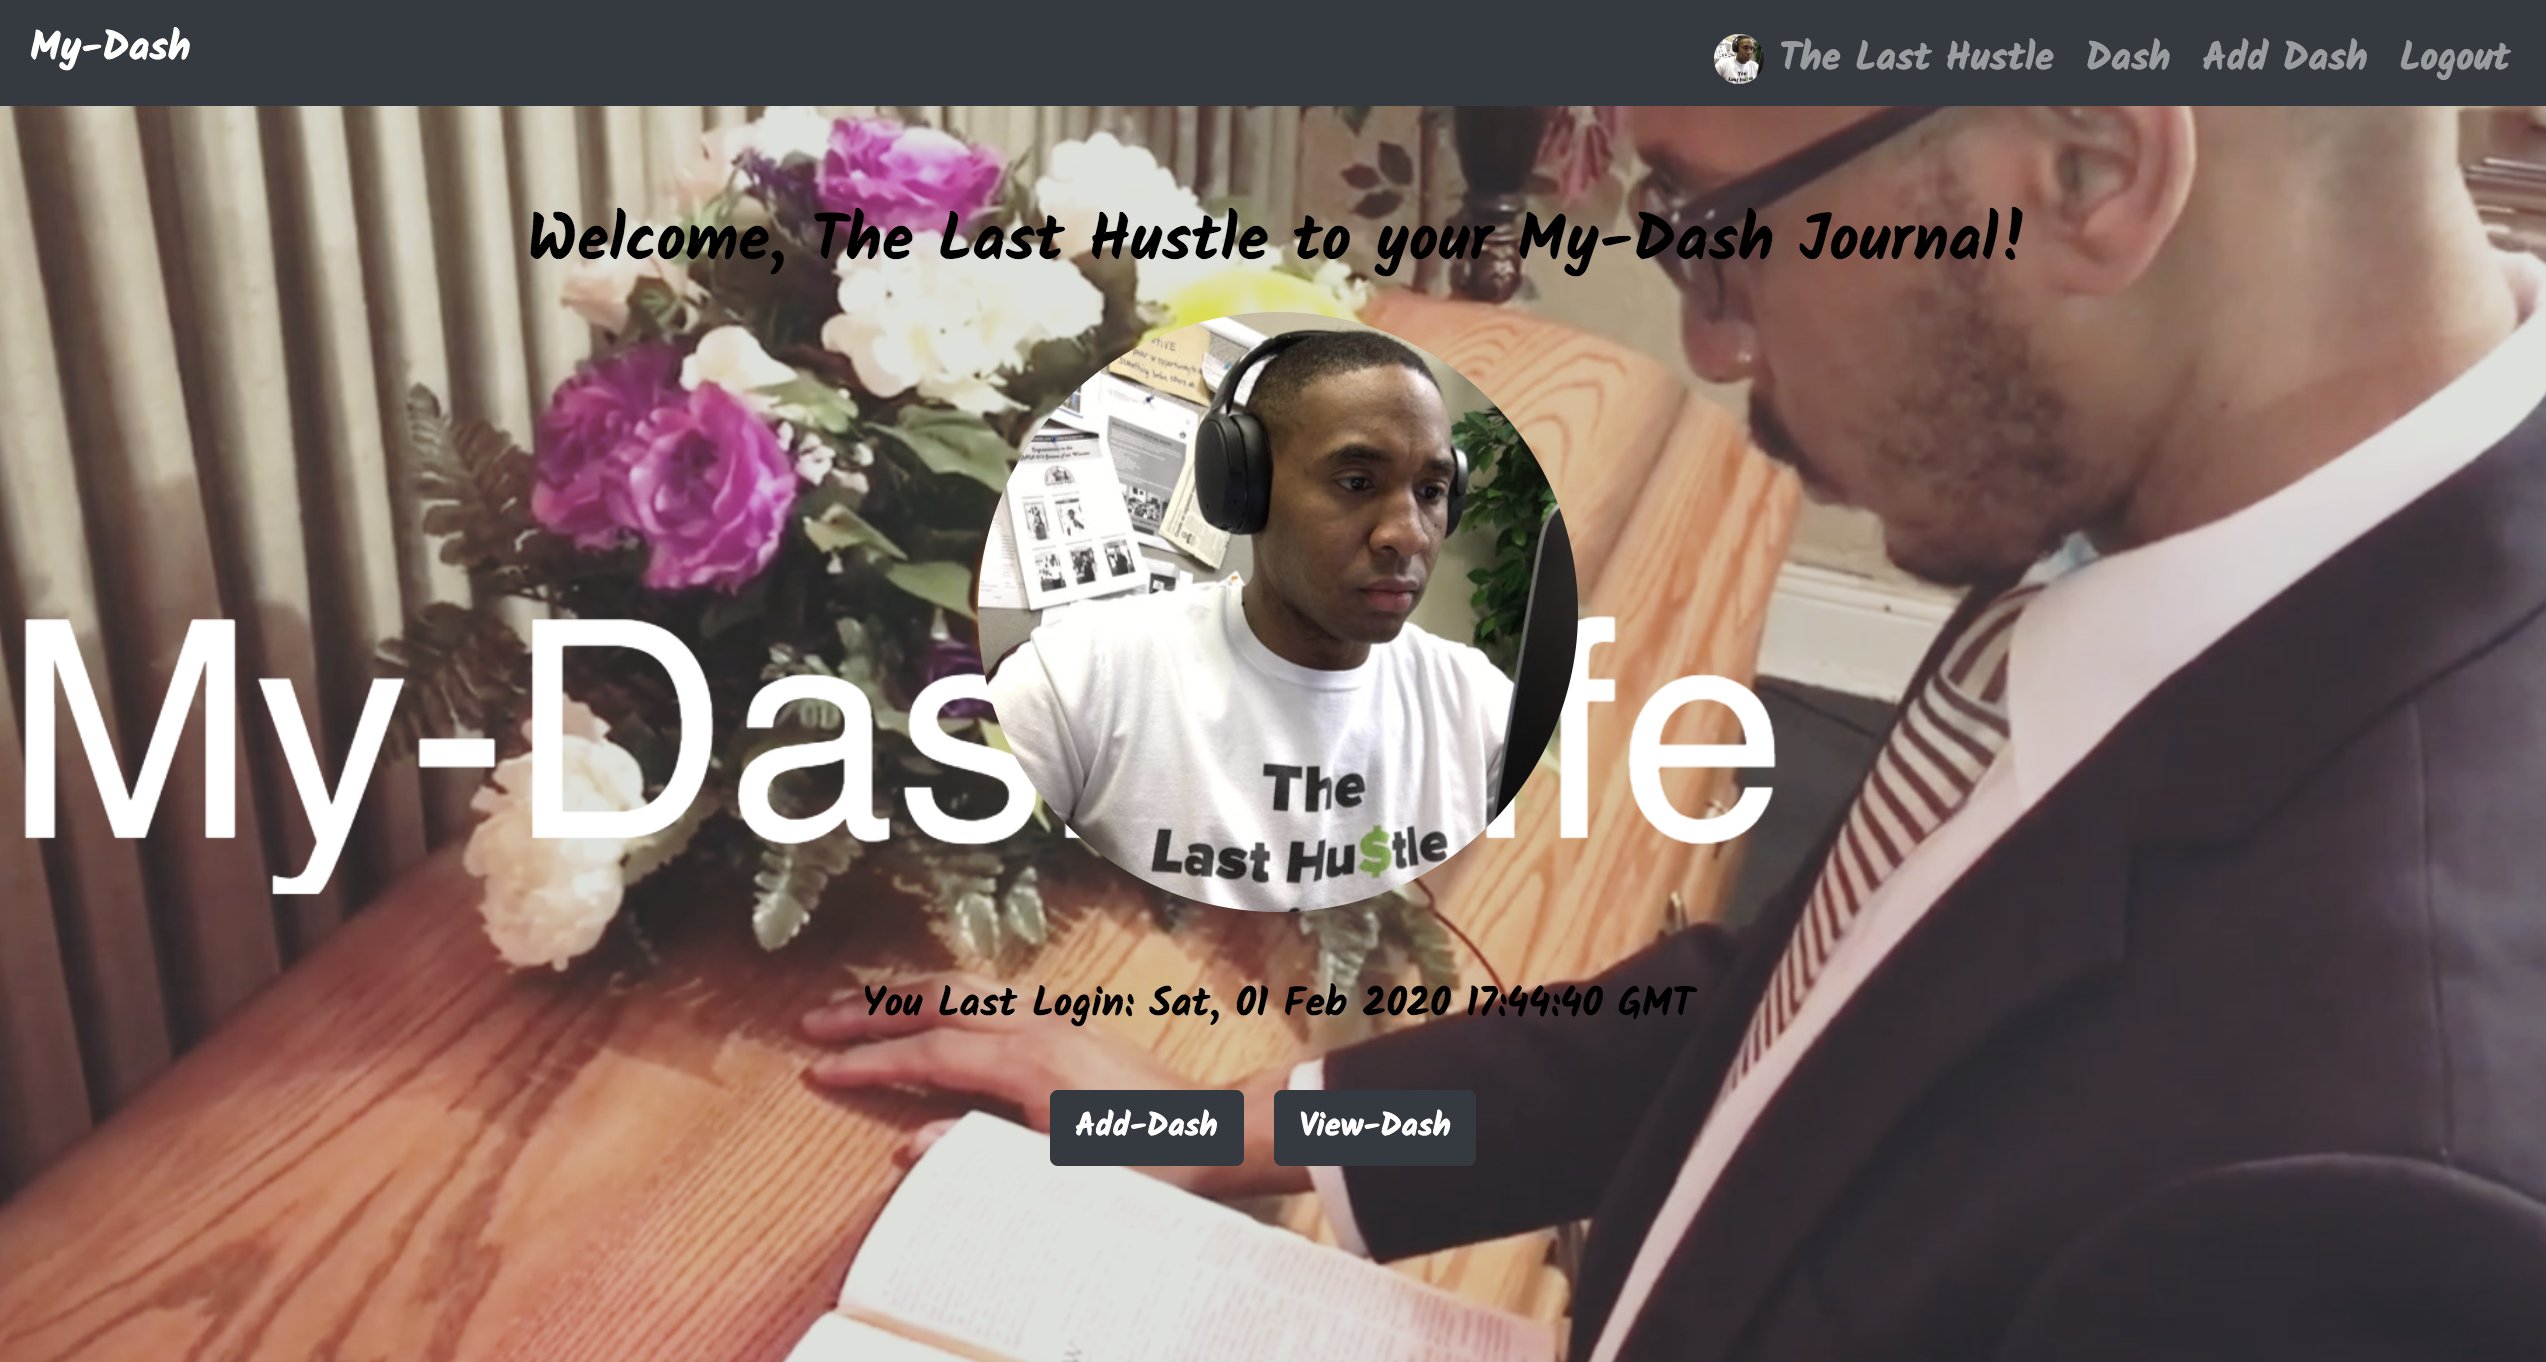
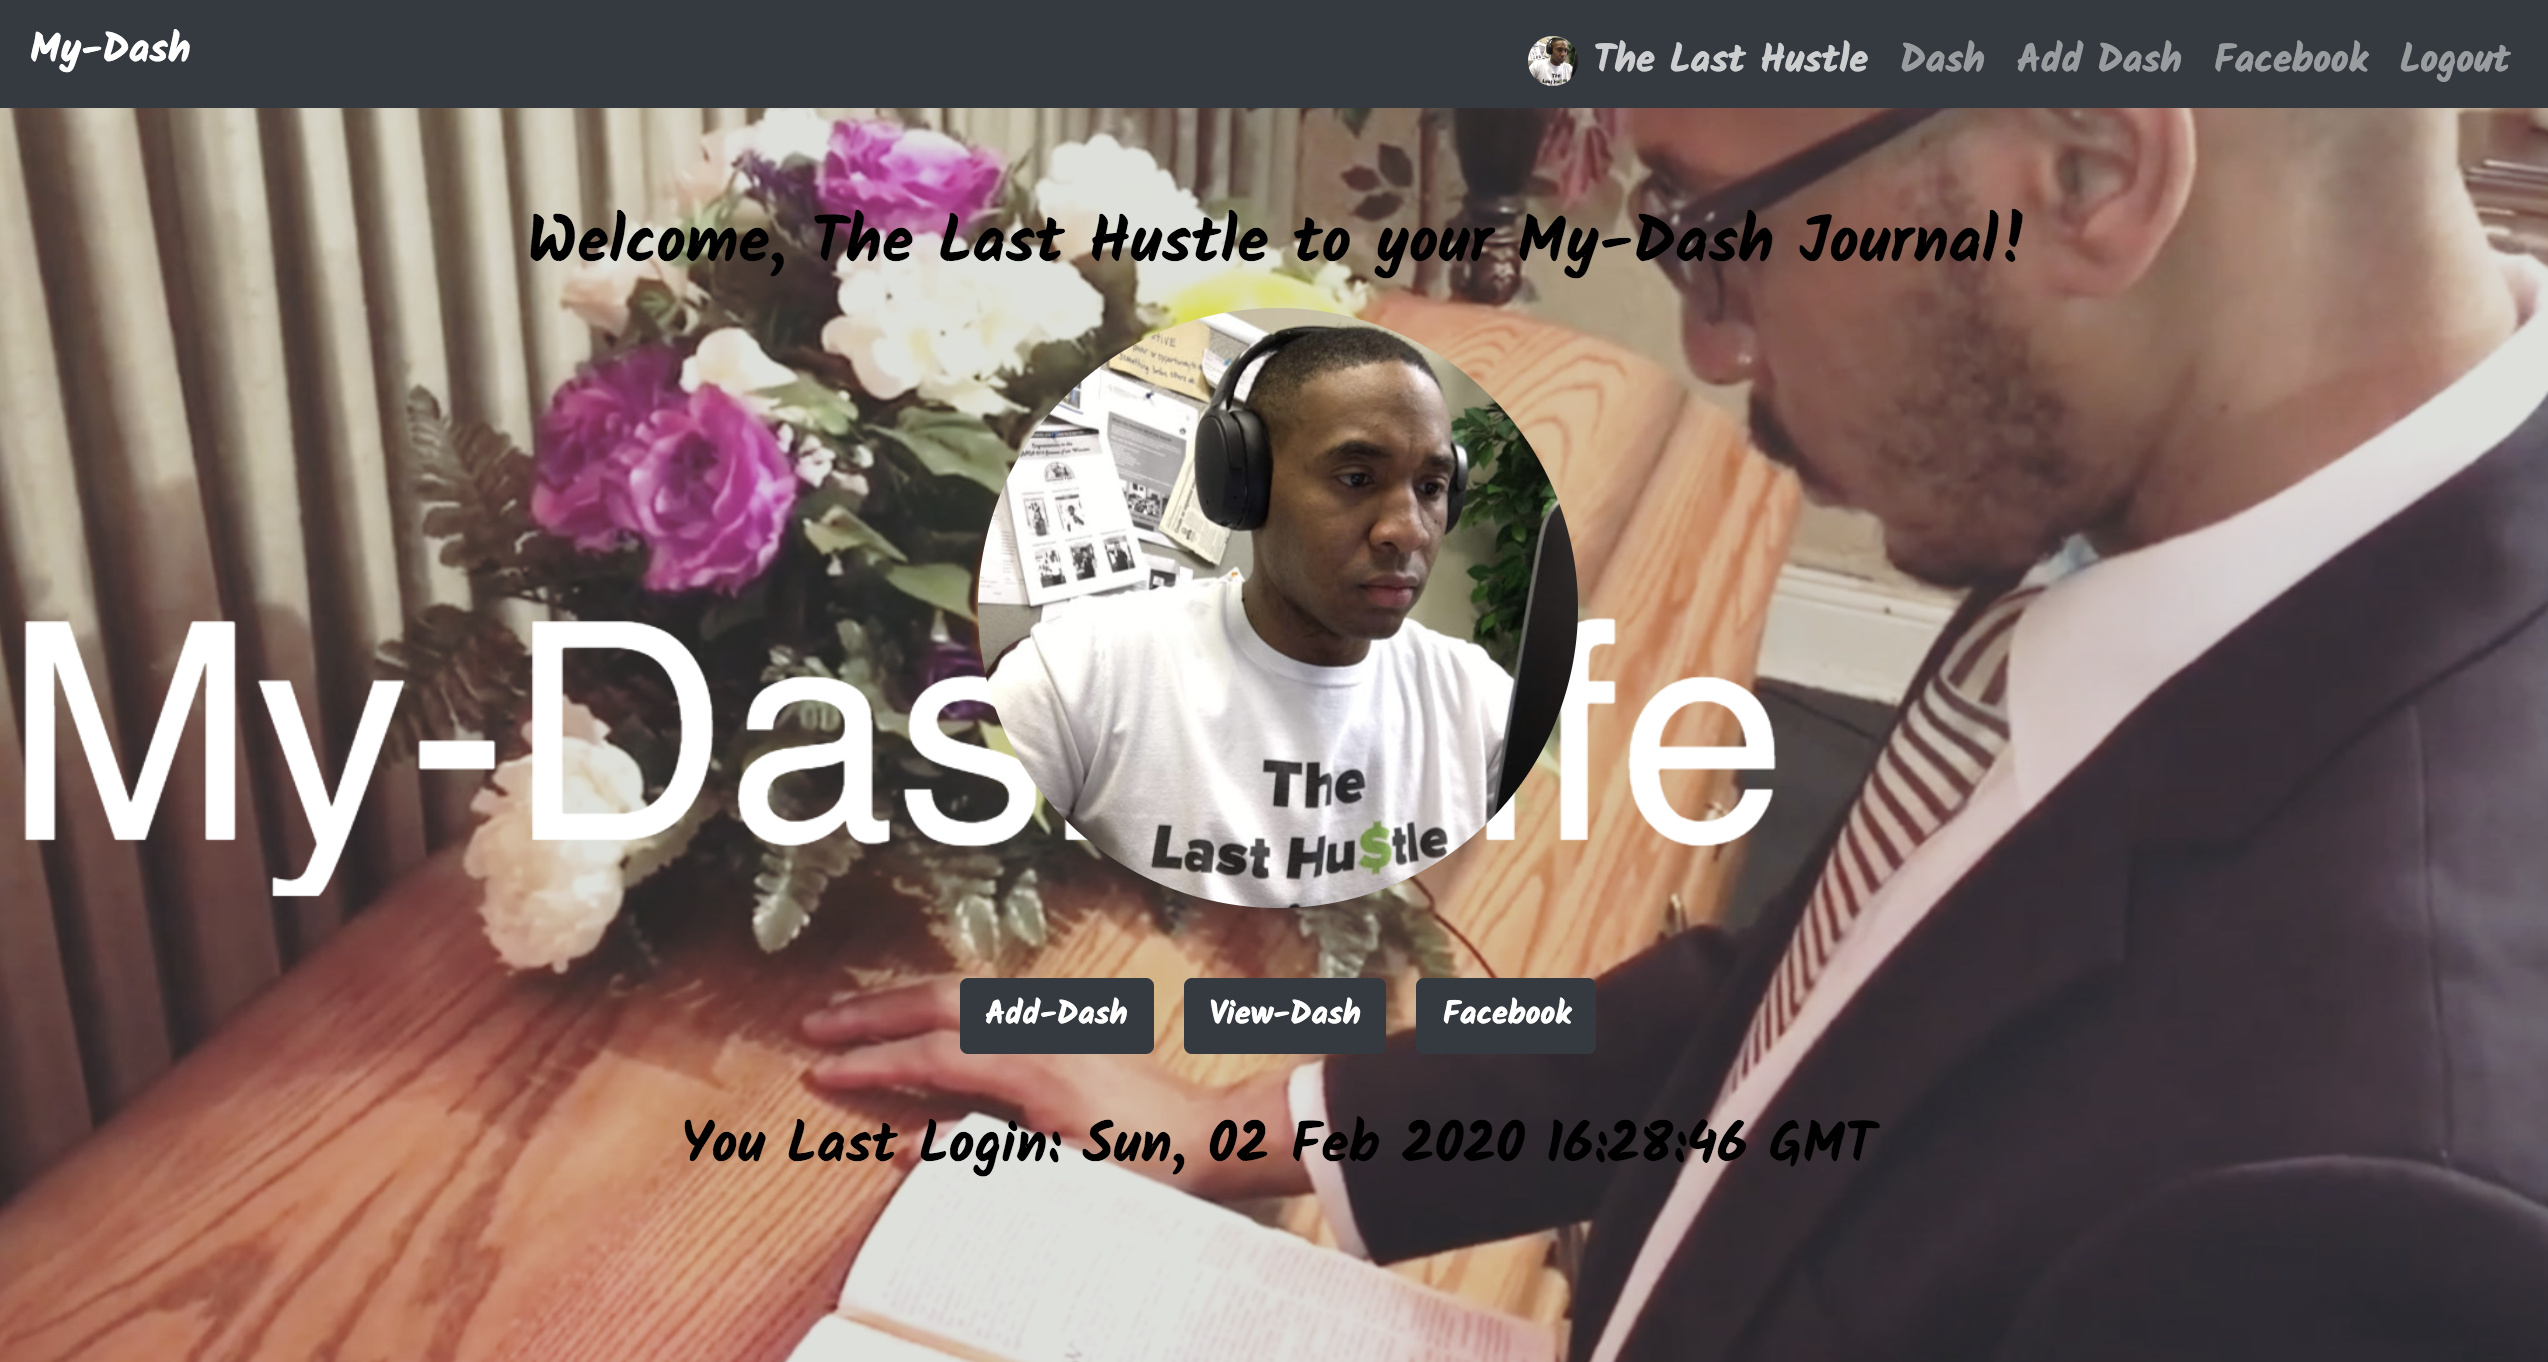
add comments

diff --git a/src/components/pages/Profile/Profile.js b/src/components/pages/Profile/Profile.js
@@ -3,36 +3,6 @@ import { Link } from 'react-router-dom';
 import './Profile.scss';
 
 class Profile extends React.Component {
-  componentDidMount() {
-    // eslint-disable-next-line func-names
-    window.fbAsyncInit = function () {
-      window.FB.init({
-        appId: 3584356521639073,
-        autoLogAppEvents: true,
-        xfbml: true,
-        version: 'v3.0',
-      });
-    };
-
-    // Load the SDK asynchronously
-    (function (d, s, id) {
-      let js;
-      const fjs = d.getElementsByTagName(s)[0];
-      if (d.getElementById(id)) return;
-      // eslint-disable-next-line prefer-const
-      js = d.createElement(s);
-      js.id = id;
-      js.src = '//connect.facebook.net/en_US/sdk.js';
-      fjs.parentNode.insertBefore(js, fjs);
-    }(document, 'script', 'facebook-jssdk'));
-    window.FB.XFBML.parse();
-  }
-
-  // componentDidUpdate() {
-  //   window.FB.XFBML.parse();
-  // }
-
-
   render() {
     const { userObj } = this.props;
     return (
@@ -44,8 +14,8 @@ class Profile extends React.Component {
   <div className="card-body">
   <Link className="btn btn-dark create" to={'/event/new'}>Add-Dash</Link>
   <Link className="btn btn-dark view" to={'/event'}>View-Dash</Link>
+  <Link className="btn btn-dark " to={'/comments'}>Facebook</Link>
     <h3 className="login-time">You Last Login: {userObj.metadata.lastSignInTime}</h3>
-  <div className="fb-comments" data-href="https://my-dash-93e26.firebaseapp.com/" data-width="500" data-numposts="10"></div>
   </div>
 </div>
   </div>

diff --git a/src/components/pages/Comments/Comments.js b/src/components/pages/Comments/Comments.js
@@ -1,0 +1,39 @@
+import React from 'react';
+import './Comments.scss';
+
+class Comments extends React.Component {
+  componentDidMount() {
+    // eslint-disable-next-line func-names
+    window.fbAsyncInit = function () {
+      window.FB.init({
+        appId: 3584356521639073,
+        autoLogAppEvents: true,
+        xfbml: true,
+        version: 'v3.0',
+      });
+    };
+
+    // Load the SDK asynchronously
+    (function (d, s, id) {
+      let js;
+      const fjs = d.getElementsByTagName(s)[0];
+      if (d.getElementById(id)) return;
+      // eslint-disable-next-line prefer-const
+      js = d.createElement(s);
+      js.id = id;
+      js.src = '//connect.facebook.net/en_US/sdk.js';
+      fjs.parentNode.insertBefore(js, fjs);
+    }(document, 'script', 'facebook-jssdk'));
+    window.FB.XFBML.parse();
+  }
+
+  render() {
+    return (<div className="b">
+      <h1 className="comments">My-Dash Comments</h1>
+    <div className="fb-comments" data-href="https://my-dash-93e26.firebaseapp.com/" data-width="700" data-numposts="10"></div>
+    </div>
+    );
+  }
+}
+
+export default Comments;

diff --git a/src/components/shared/Share/Share.js b/src/components/shared/Share/Share.js
@@ -2,15 +2,25 @@ import React from 'react';
 import {
   FacebookIcon,
 } from 'react-share';
+import PropTypes from 'prop-types';
 import './Share.scss';
 
+import eventShape from '../../../helpers/propz/eventShape';
+
 class Share extends React.Component {
+  static propTypes = {
+    event: eventShape.eventShape,
+  }
+
   render() {
+    const { event } = this.props;
     return (
       <div className="fb-share-button" data-href="https://my-dash-93e26.firebaseapp.com/" data-layout="button" data-size="large">
   <p className="share">Share On: </p>
       <a target="_" href="https://www.facebook.com/sharer/sharer.php?u=https%3A%2F%2Fmy-dash-93e26.firebaseapp.com%2F&amp;src=sdkpreparse"><FacebookIcon className="fb"/></a>
+      {/* <img src={event.imgUrl} className="event-pic rounded-circle" alt="..."/> */}
         </div>
+
     );
   }
 }

diff --git a/src/App/App.js b/src/App/App.js
@@ -10,6 +10,8 @@ import firebaseConnection from '../helpers/data/connections';
 import Profile from '../components/pages/Profile/Profile';
 import Event from '../components/pages/Event/Event';
 import EventForm from '../components/pages/EventForm/EventForm';
+import Comments from '../components/pages/Comments/Comments';
+
 
 import './App.scss';
 
@@ -59,6 +61,8 @@ class App extends React.Component {
         <PrivateRoute path="/event" exact component={Event} authed={authed}/>
         <PrivateRoute path="/event/new" exact component={EventForm} authed={authed}/>
         <PrivateRoute path="/event/:eventId/edit" exact component={EventForm} authed={authed} />
+        <PrivateRoute path="/comments" exact component={Comments} authed={authed} />
+
         </Switch>
       </Router>
     </div>

diff --git a/src/components/shared/Navbar/Navbar.js b/src/components/shared/Navbar/Navbar.js
@@ -26,6 +26,7 @@ render() {
     <li className="nav-item"><span><Link className="nav-link" to="/"><img src={userObj.photoURL} className="icon rounded-circle" alt="..."/> {userObj.displayName}</Link></span></li>
     <li className="nav-item"><Link className="nav-link" to="/event">Dash</Link></li>
     <li className="nav-item"><Link className="nav-link" to="/event/new">Add Dash</Link></li>
+    <li className="nav-item"><Link className="nav-link" to="/comments">Facebook</Link></li>
     <li className="nav-item"><p className="nav-link" onClick={this.logMeOut}>Logout</p></li>
    </ul>
       );

diff --git a/src/components/shared/Share/Share.scss b/src/components/shared/Share/Share.scss
@@ -1,9 +1,9 @@
 
 .fb{
- 
-  border-radius: 55px;
+  border-radius: 32px;
 }
 
 .share{
   color:#4968ad;
+  border-radius: 32px;
 }

diff --git a/src/components/pages/Comments/Comments.scss b/src/components/pages/Comments/Comments.scss
@@ -1,0 +1,8 @@
+.fb-comments{
+  background-color:#e9ebee; 
+}
+
+.comments{
+  color:black;
+  margin-top: 50px;
+}

diff --git a/README.md b/README.md
@@ -68,7 +68,7 @@ This section has moved here: https://facebook.github.io/create-react-app/docs/de
 This section has moved here: https://facebook.github.io/create-react-app/docs/troubleshooting#npm-run-build-fails-to-minify -->
 
 # My-Dash Application Overview
-My-Dash is a online legacy journal single-page application that allows users to save their life events. Users can add a new event entry, edit an entry, view all entries, and delete an entry.
+My-Dash is a online legacy journal single-page application that allows users to save their life events. Users can add a new event entry, edit an entry, view all entries, and delete an entry. Users can create, edit, delete comments with the My-Dash app and post them to Facebook with a photo to share with anyone on Facebook.
 
 # Installation Instructions
 - Clone down this repo https://github.com/rarceneaux/my-dash-capstone
@@ -92,6 +92,7 @@ Once you login with your google email account:
 - User can **READ** all existing event entries
 - User can **UPDATE** an existing entry by changing one or all given entry fields (title, summary, photo)
 - User can **DELETE** an event entry entirely from their journal
+- Users can **Comment** within the My-Dash App and post them to Facebook with a photo.
 - User can **Share** My-Dash App on Facebook
 
 # My-Dash Screenshot
@@ -102,7 +103,7 @@ Once you login with your google email account:
 ![](https://raw.githubusercontent.com/rarceneaux/my-dash-capstone/master/src/assets/Gmail.png)
 
 ## USER PROFILE PAGE
-![](https://raw.githubusercontent.com/rarceneaux/my-dash-capstone/master/src/assets/Home.png)
+![](src/assets/Home.png)
 
 ## READ My-Dash Events
 ![](https://raw.githubusercontent.com/rarceneaux/my-dash-capstone/master/src/assets/ReadEvents.png)
@@ -112,6 +113,21 @@ Once you login with your google email account:
 
 ## EDIT My-Dash Events FORM
 ![](https://raw.githubusercontent.com/rarceneaux/my-dash-capstone/master/src/assets/EditEvent.png)
+
+## FACEBOOK COMMENTS My-Dash CREATE
+![](src/assets/CommentCreate.png)
+
+## FACEBOOK COMMENTS My-Dash Post
+![](src/assets/CommentDone.png)
+
+## FACEBOOK COMMENTS My-Dash Confirm Post to Facebook
+![](src/assets/My-DashConfirm.png)
+
+## FACEBOOK COMMENTS Facebook Confirm Post 
+![](src/assets/FacebookCommentFacebook.png)
+
+## FACEBOOK COMMENTS Posted on Facebook Profile
+![](src/assets/Post.png)
 
 ## FACEBOOK SHARE My-Dash
 ![](https://raw.githubusercontent.com/rarceneaux/my-dash-capstone/master/src/assets/FacebookShare.png)
